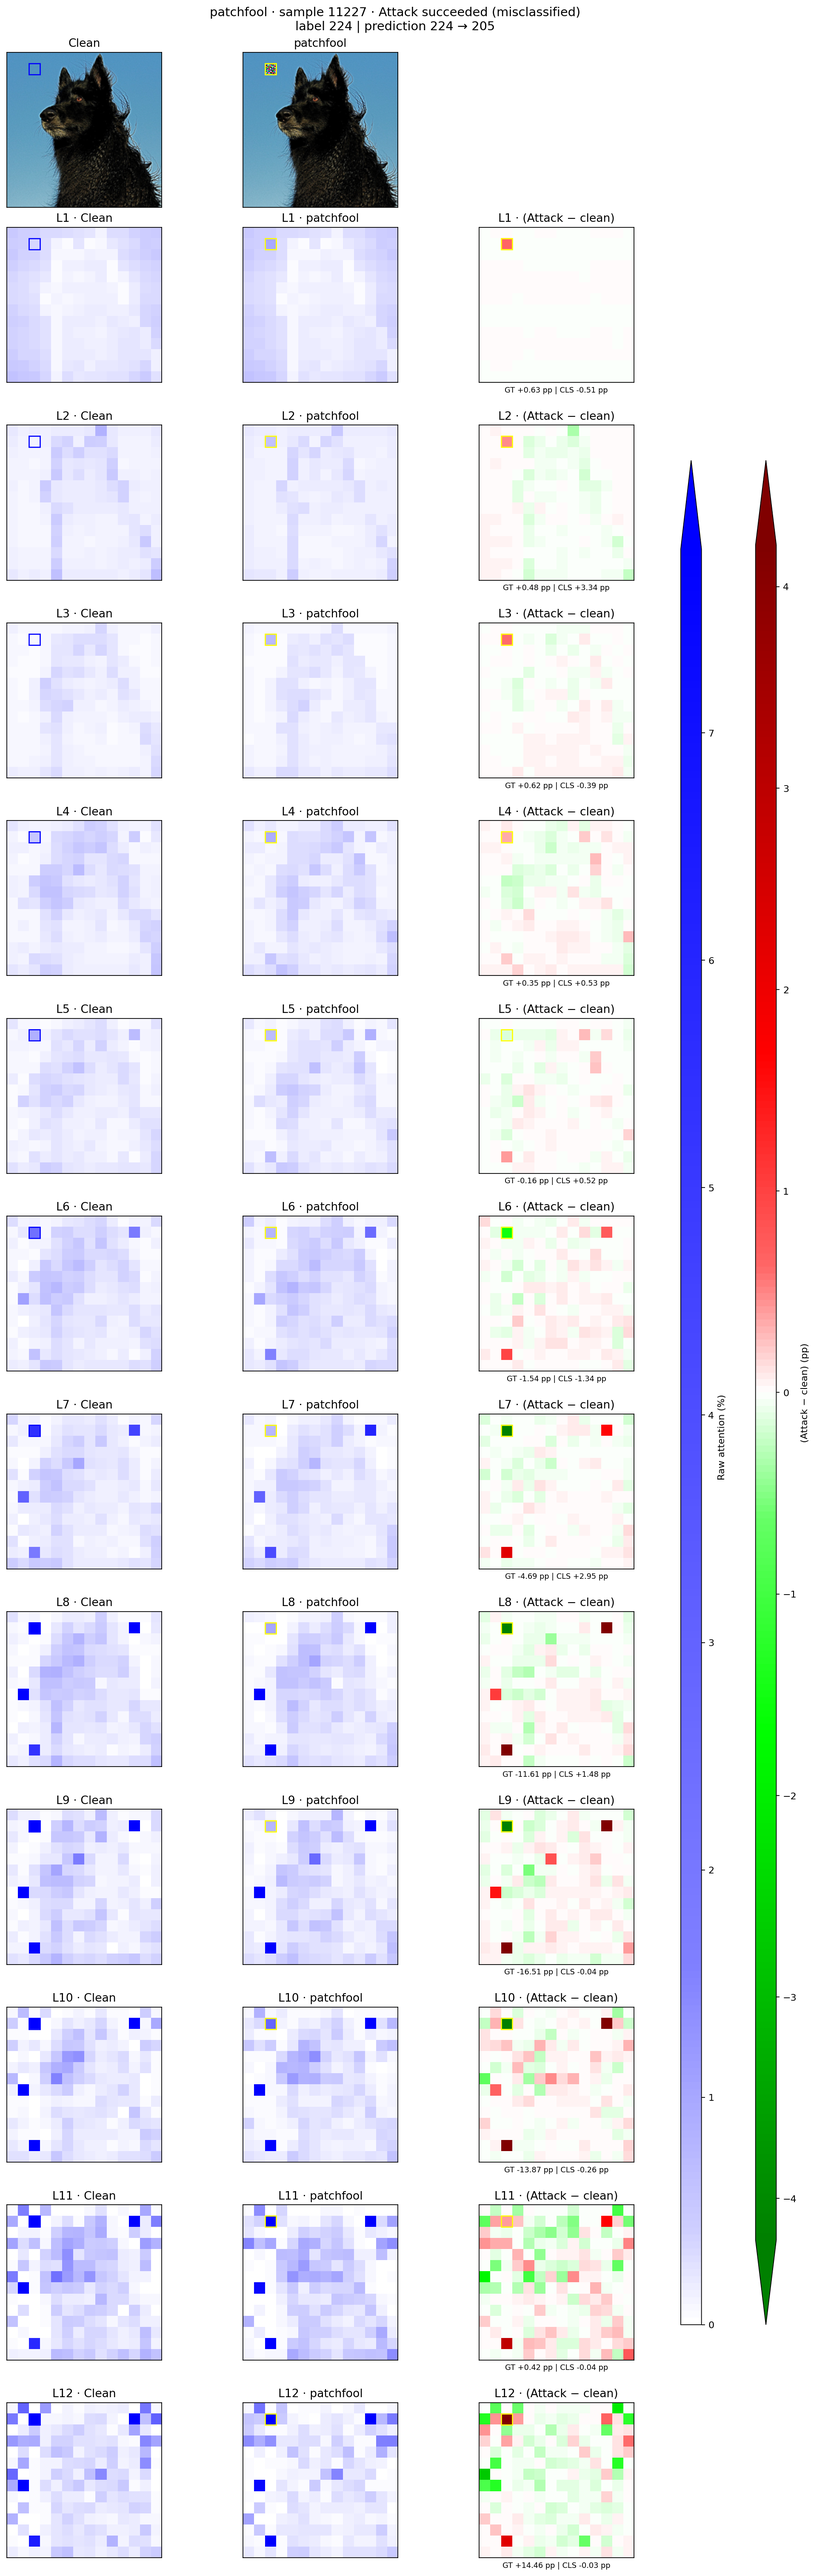
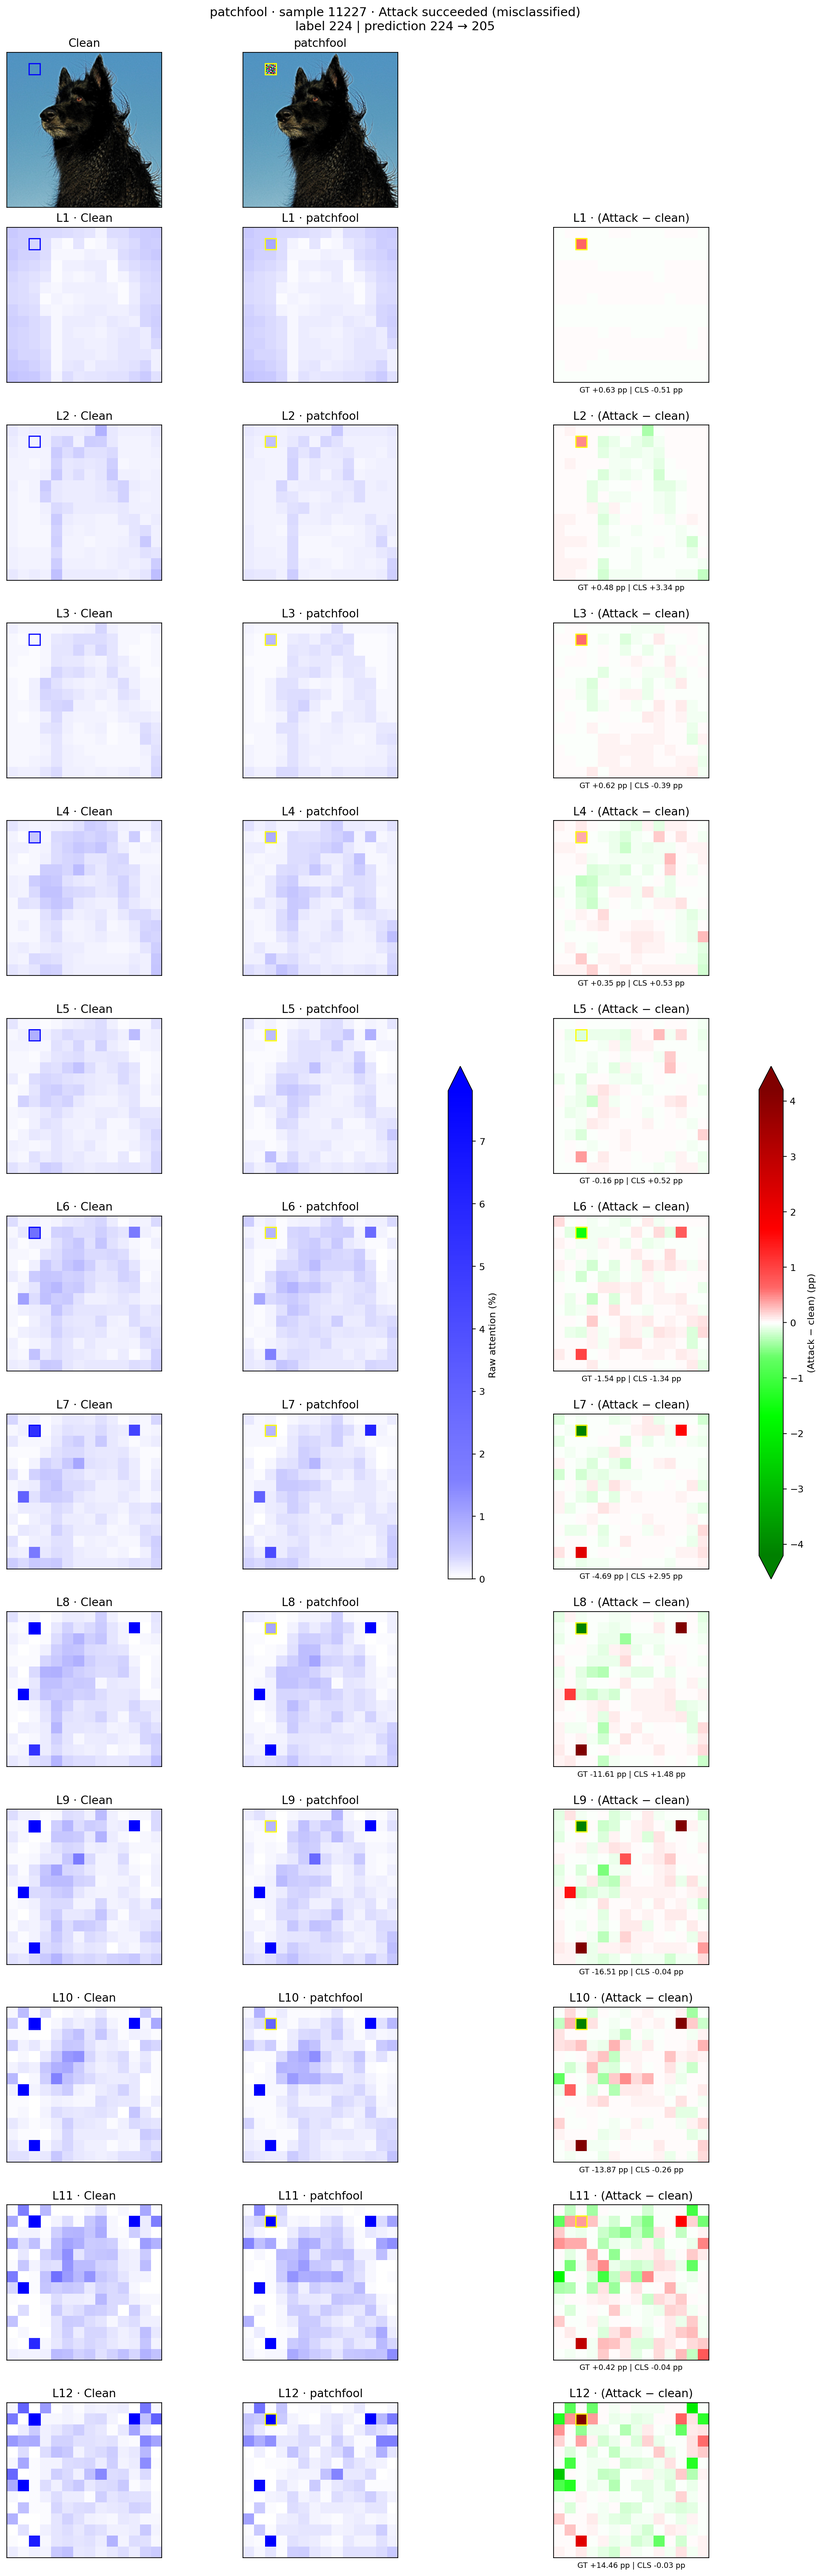
Colorbars: raw bar between Attack and difference columns, both shorter and at the same height

diff --git a/01_patch_attack_detector/experiments/characterization/02_compare_attention_success_failure.py b/01_patch_attack_detector/experiments/characterization/02_compare_attention_success_failure.py
@@ -168,11 +168,12 @@ def draw_maps(data, manifest, attack, sample_i, metrics, layers, scales, status_
     if side * side != len(coverage):
         raise ValueError('현재 맵은 정사각 patch 격자를 지원합니다.')
     n_rows = len(layers) + 1
-    # 이미지 3열 + 컬러바 전용 2열. 컬러바를 이미지 열에서 폭을 빌려 붙이면 열마다 폭이 달라져
-    # 어긋나므로, 컬러바는 별도 열에 두 개(raw / 차이)를 같은 길이·같은 위치로 놓는다.
+    # 열 순서: Clean | Attack | raw 컬러바 | 차이 | 차이 컬러바. 컬러바를 이미지 열에서 폭을 빌려
+    # 붙이면 열마다 폭이 달라져 어긋나므로, 컬러바는 전용 열에 두고 같은 길이·같은 높이로 놓는다.
     figure = plt.figure(figsize=(12.6, 2.9 * n_rows), layout='constrained')
-    grid = figure.add_gridspec(n_rows, 5, width_ratios=[1, 1, 1, .3, .3])
-    axes = np.array([[figure.add_subplot(grid[r, c]) for c in range(3)] for r in range(n_rows)])
+    grid = figure.add_gridspec(n_rows, 5, width_ratios=[1, 1, .3, 1, .3])
+    image_grid_col = [0, 1, 3]
+    axes = np.array([[figure.add_subplot(grid[r, image_grid_col[c]]) for c in range(3)] for r in range(n_rows)])
     mean = np.asarray(manifest['mean'])[:, None, None]
     std = np.asarray(manifest['std'])[:, None, None]
     extent = [-.5, side - .5, side - .5, -.5]
@@ -213,11 +214,12 @@ def draw_maps(data, manifest, attack, sample_i, metrics, layers, scales, status_
                 cls_gain = metrics['cls_delta'][sample_i, layer_i] * 100
                 axis.set_xlabel(f'GT {gt_gain:+.2f} pp | CLS {cls_gain:+.2f} pp', fontsize=8)
     # raw(파랑)는 Clean/Attack이 같은 스케일이라 하나만 두고, 차이 컬러바와 길이·위치를 맞춘다.
-    for grid_col, image, label, extend in [(3, column_image[0], 'Raw attention (%)', 'max'),
+    # 위치는 예전 파랑 컬러바 자리(그림 가운데쯤), 길이도 그때 정도로 둔다.
+    for grid_col, image, label, extend in [(2, column_image[0], 'Raw attention (%)', 'max'),
                                              (4, column_image[2], '(Attack − clean) (pp)', 'both')]:
         holder = figure.add_subplot(grid[1:, grid_col])
         holder.set_axis_off()
-        figure.colorbar(image, cax=holder.inset_axes([.05, .1, .3, .8]), extend=extend, label=label)
+        figure.colorbar(image, cax=holder.inset_axes([.1, .42, .35, .22]), extend=extend, label=label)
     label_value = int(data['label'][sample_i])
     clean_pred = int(data['clean__prediction'][sample_i])
     attacked_pred = int(data[attack + '__prediction'][sample_i])
